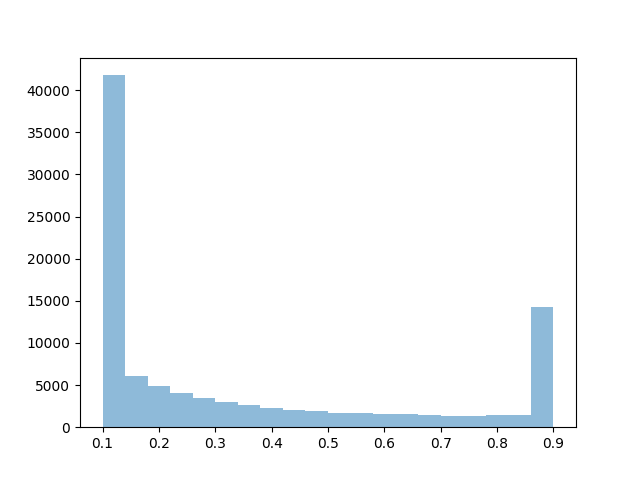
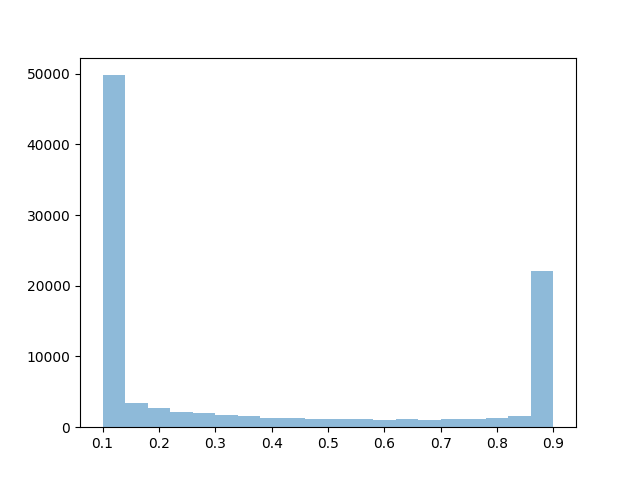
設定の変更

diff --git a/main.py b/main.py
@@ -45,7 +45,7 @@ def main(predict_ps: bool) -> None:
     seed = 42
     n_samples = 100_000
     n_features = 8
-    num_epochs = 50
+    num_epochs = 30
     lr = 0.005
     delta = 0.0
     batch_size = 128
@@ -61,6 +61,7 @@ def main(predict_ps: bool) -> None:
                          "IPW", 
                          "Direct"
                          ]
+    # method_list = []
     roi_dic = {}
     for method in method_list:
         train_dl = make_loader(
@@ -92,11 +93,11 @@ def main(predict_ps: bool) -> None:
         trainer.save_model(model, "model.pth")
         predictions = trainer.predict(dl=test_dl, model=model).squeeze()
         roi_dic[method] = predictions
-    # roi_tpmsl = get_roi_tpmsl(
-    #     train_dataset,
-    #     test_dataset,
-    # )
-    # roi_dic["TPMSL"] = roi_tpmsl
+    roi_tpmsl = get_roi_tpmsl(
+        train_dataset,
+        test_dataset,
+    )
+    roi_dic["TPMSL_LGBM"] = roi_tpmsl
     model_name = "SLearner"
     model_params = {"input_dim": n_features + 1}
     model = get_model(model_name=model_name, model_params=model_params)
@@ -132,7 +133,7 @@ def main(predict_ps: bool) -> None:
         trainer.save_model(model, "model.pth")
         predictions = trainer.predict(dl=test_dl, model=model).squeeze()
         prediction_sl[method] = predictions
-    roi_dic["TPMSL"] = prediction_sl["revenue"] / prediction_sl["cost"]
+    roi_dic["TPMSL"] = prediction_sl["revenue"] / (prediction_sl["cost"] + 1e6)
     scaler = MinMaxScaler()
     roi_dic["TPMSL"] = scaler.fit_transform(roi_dic["TPMSL"].reshape(-1, 1)).flatten()
     roi_dic["Optimal"] = test_dataset["true_tau_r"] / test_dataset["true_tau_c"]

diff --git a/src/model/common.py b/src/model/common.py
@@ -29,20 +29,31 @@ def make_loader(
     ds: Dataset  # type: ignore
     if model_name == "SLearner":
         if method == "revenue":
-            ds = SlearnerDataset(
-                X=dataset["features"],
-                T=dataset["T"],
-                y=dataset["y_r"],
-                seed=seed,
-            )
+            if train_flg:
+                ds = SlearnerDataset(
+                    X=dataset["features"],
+                    T=dataset["T"],
+                    y=dataset["y_r"],
+                    seed=seed,
+                )
+            else:
+                ds = SlearnerDataset(
+                    X=dataset["features"],
+                    seed=seed,
+                )
         elif method == "cost":
-            ds = SlearnerDataset(
-                X=dataset["features"],
-                T=dataset["T"],
-                y=dataset["y_c"],
-                seed=seed,
-            )
-
+            if train_flg:
+                ds = SlearnerDataset(
+                    X=dataset["features"],
+                    T=dataset["T"],
+                    y=dataset["y_c"],
+                    seed=seed,
+                )
+            else:
+                ds = SlearnerDataset(
+                    X=dataset["features"],
+                    seed=seed,
+                )
     elif model_name == "Direct":
         if train_flg:
             if method == "DR":

diff --git a/src/make_data.py b/src/make_data.py
@@ -109,8 +109,8 @@ class DatasetGenerator:
         T: NDArray[Any],
     ) -> dict[str, NDArray[Any]]:
         np.random.seed(self.seed)
-        interaction_effect = np.exp(1 * (features[:, 0] + features[:, 3]))
-        baseline_effect = 0.2 + features[:, 2] + features[:, 4]
+        interaction_effect = np.exp(features[:, 0] + features[:, 1])
+        baseline_effect = np.sum(features, axis=1)
         treatment_effect = T * interaction_effect
         std = self.delta * np.sqrt(np.pi / 2)
         noise = np.random.normal(0, std, size=len(features))
@@ -145,8 +145,8 @@ class DatasetGenerator:
     ) -> Dict[str, NDArray[Any]]:
         np.random.seed(self.seed)
         noise = np.random.normal(0, self.delta, size=len(features))
-        interaction_effect_purchase = np.exp(1 * (features[:, 1] + features[:, 6]))
-        baseline_effect_purchase = 0.1 + features[:, 5] + features[:, 7]
+        interaction_effect_purchase = np.exp(features[:, 2] + features[:, 3])
+        baseline_effect_purchase = np.sum(features, axis=1)
         treatment_effect_purchase = T * interaction_effect_purchase
         std = self.delta * np.sqrt(np.pi / 2)
         noise = np.random.normal(0, std, size=len(features))

diff --git a/src/model/slearner.py b/src/model/slearner.py
@@ -14,9 +14,9 @@ class SlearnerDataset(Dataset):  # type: ignore
     def __init__(
         self,
         X: NDArray[Any],
-        T: Optional[NDArray[Any]],
-        y: Optional[NDArray[Any]],
-        seed: int,
+        T: Optional[NDArray[Any]]=None,
+        y: Optional[NDArray[Any]]=None,
+        seed: int=42,
     ) -> None:
         np.random.seed(seed)
         self.X = X
@@ -53,15 +53,16 @@ class SLearnerNonLinear(nn.Module):
             nn.Linear(input_dim, int(0.5 * input_dim)),
             nn.ReLU(),
             nn.Dropout(0.05),
-            nn.Linear(int(0.5 * input_dim), 1),  # Sigmoidを削除
+            nn.Linear(int(0.5 * input_dim), 1), 
+            nn.Sigmoid(),
         )
         self.criterion = nn.BCEWithLogitsLoss()
 
     def forward(
         self, X: torch.Tensor, y: Optional[torch.Tensor] = None
     ) -> dict[str, torch.Tensor]:
-        pred = self.mlp(X).squeeze()
         if y is not None:
+            pred = self.mlp(X).squeeze()
             return {"pred": pred, "loss": self.criterion(pred, y)}
         else:
             X_1 = torch.cat([X, torch.ones((X.size(0), 1))], dim=1)
